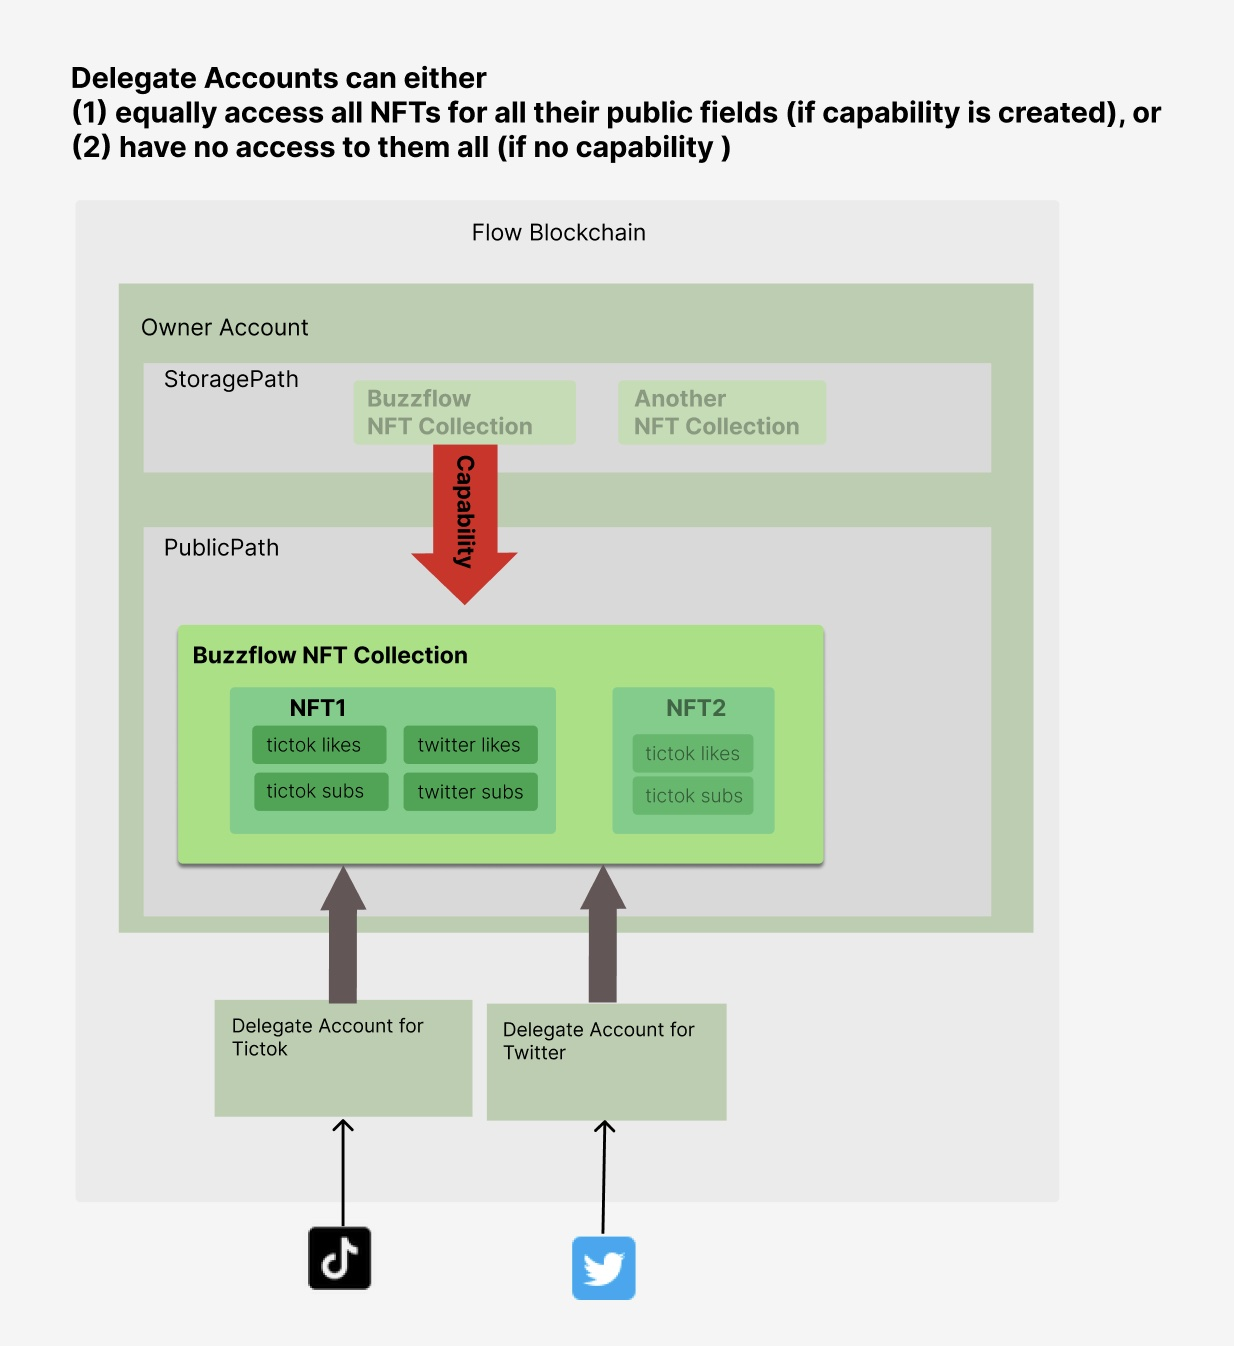
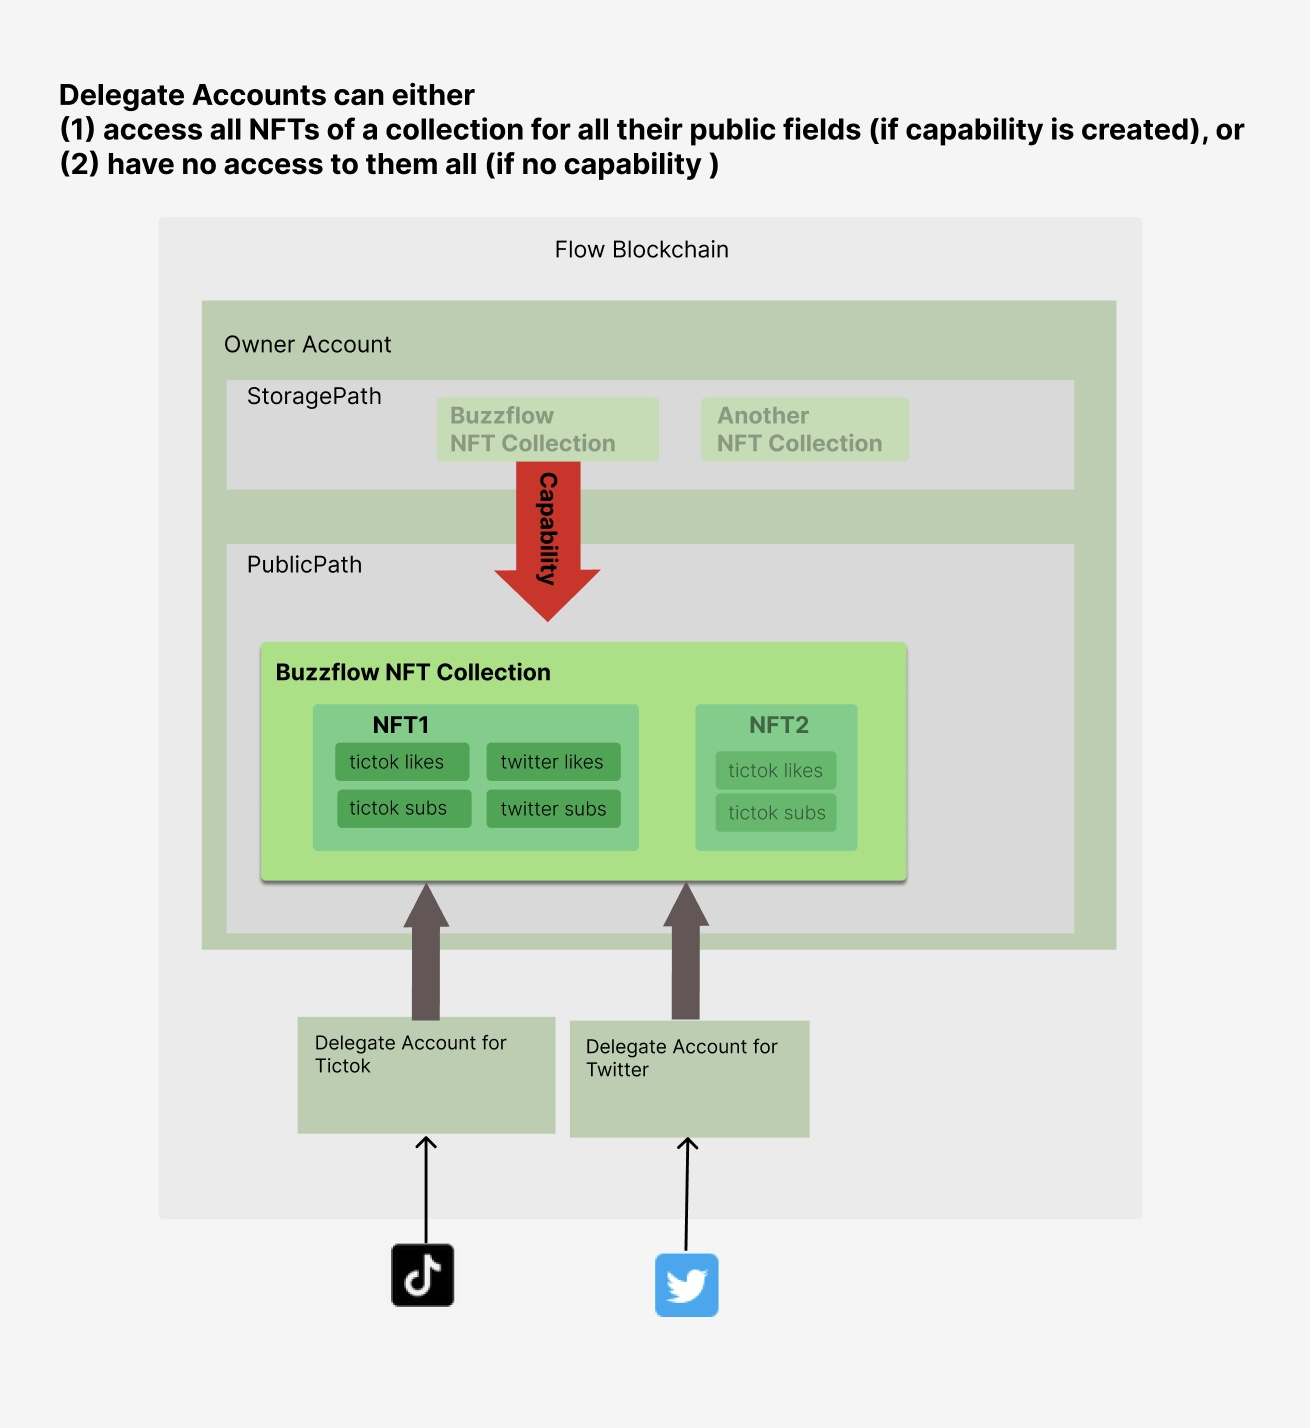
update doc

diff --git a/AccessManager - A Granular Resource Access Control Solution .md b/AccessManager - A Granular Resource Access Control Solution .md
@@ -7,19 +7,14 @@ Cadence provides both [capability-based access control](https://developers.flow.
 
 Due to this restriction,  we faced some challenges when scaling the dapp Buzzflow. 
 
-```
+>
 As the background, users can create AR videos with their NFT's 3D variants through Buzzflow's mobile app, then post these videos to the binded social platforms. Buzzflow will aggregate the metrics such as likes and followers through the se platform's APIs to update the NFT's storage, and eventually impact the NFT's rareness and market value. For security and scaling measures, an obvious architecture decision is to manage each social platform through an exclusive delegate account on Flow blockchain.
-```
-
-
-
-
 
 ![AccessOrig](AccessOrig.jpg)
 
 ### Problem 1: How to limit delegate account's access to just designated fields of the NFTs
 
-Ideally, we want the Tictok delegate account only be able to read and update the NFT's Tictok-related metrics, but never touch the Instagram or Twitter ones. With above mentioned restrictions, we know it's impossible to avoid intentional access. But there can be 
+Ideally, we want the Tictok delegate account only be able to read and update the NFT's Tictok-related metrics, but never touch the Instagram or Twitter ones. Through it's technically impossible to avoid intentional access due to above mentioned restrictions, we can still provide solution to 
 
 
 
